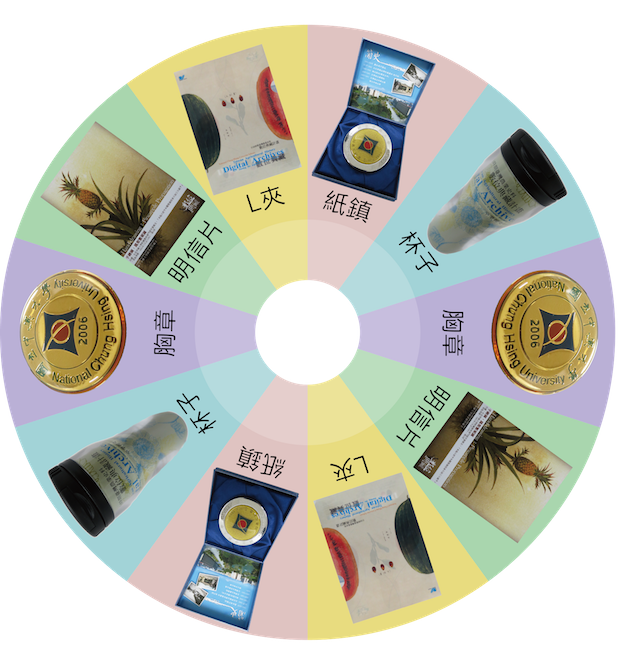
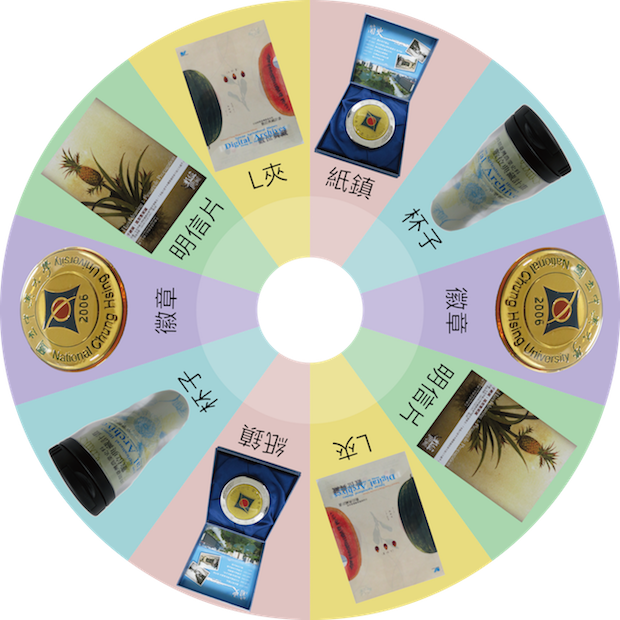
minor the prizeImg & 徽章name mod.

diff --git a/js/wheel.js b/js/wheel.js
@@ -8,7 +8,7 @@ jQuery(document).ready(function($) {
 	// slices (prizes) placed in the wheel
 	var slices = 10;
 	// prize names, starting from 12 o'clock going clockwise
-	var slicePrizes = ["紙鎮", "杯子", "胸章", "明信片", "L夾", "紙鎮", "杯子", "胸章", "明信片", "L夾"];
+	var slicePrizes = ["紙鎮", "杯子", "徽章", "明信片", "L夾", "紙鎮", "杯子", "徽章", "明信片", "L夾"];
 	// the prize you are about to win
 	var prize;
 	// text field where to show the prize

diff --git a/css/main.css b/css/main.css
@@ -32,6 +32,5 @@ canvas {
   text-align: center!important;
 }
 #prizeImage {
-  width: 90%;
-  height: 90%;
+  width: 70%;
 }
